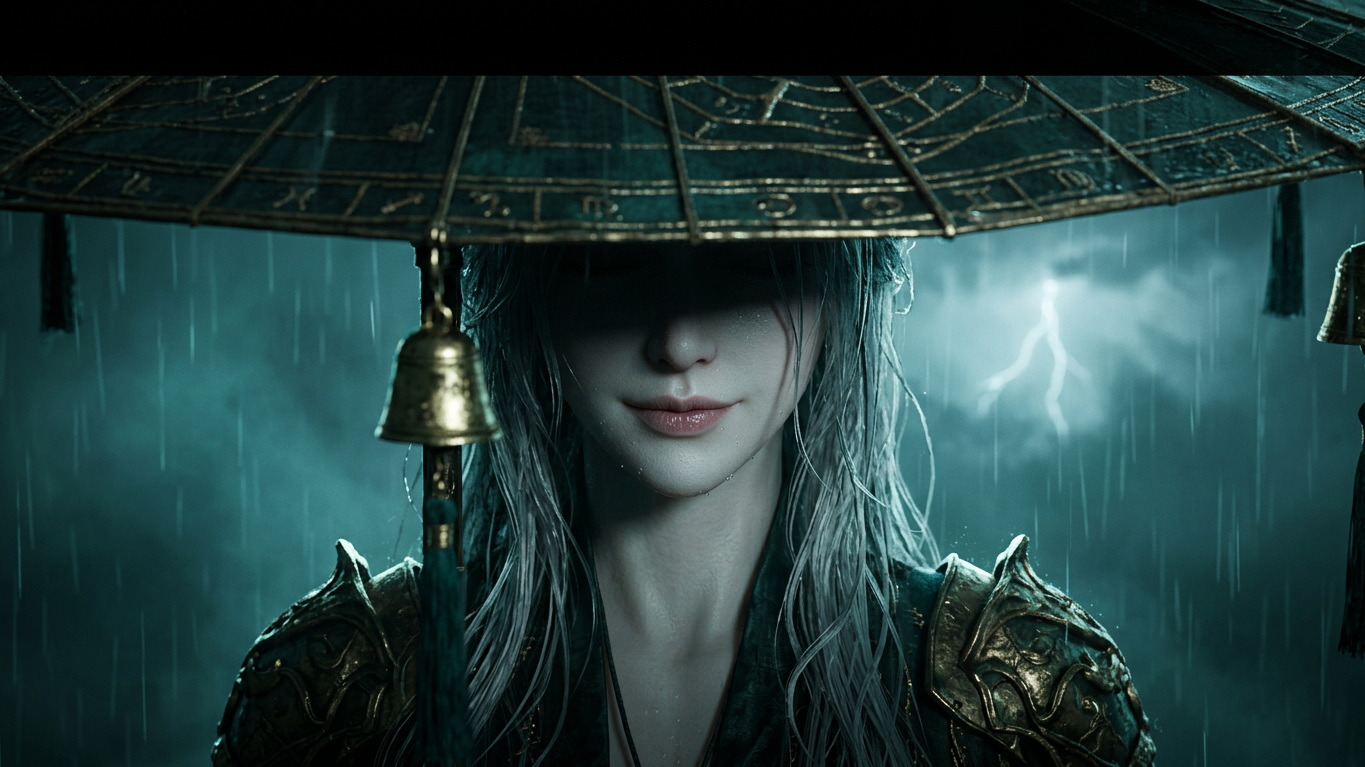
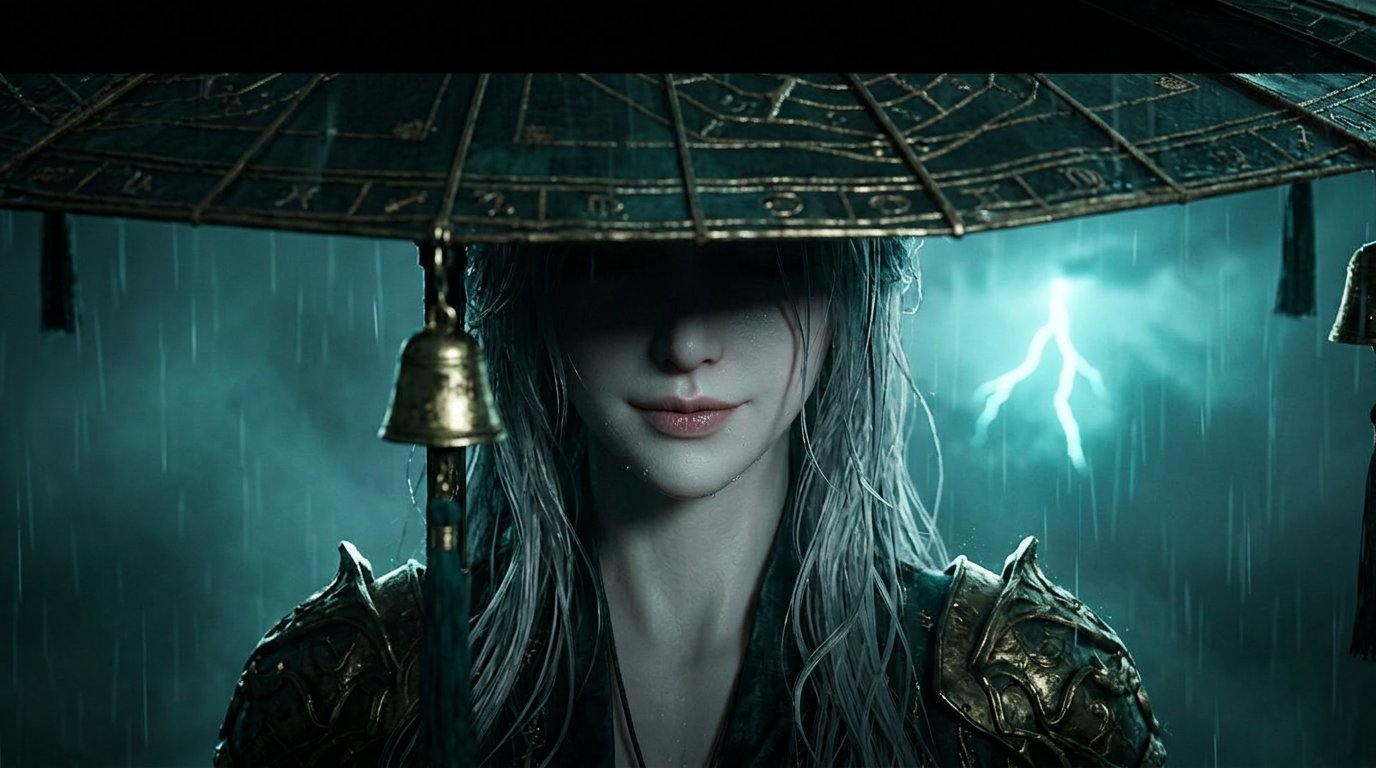
fix: 修四处不足 —— 镜20 保留石阵 / 镜12 主体 / 镜8 动势 / 镜6 去紫 + 影调再平衡
1) 镜20：以上一版原始图为底，只替换面具造型为傩面
   背景恢复石阵+残柱+小人物，与镜19/21 空间连续（上一版换图时丢了这一点）
2) 镜12：拉远取景，人物上身与面部完整可读，盾占画幅约 1/3 而非满屏
3) 镜8：正面站姿海报 -> 低角度、迈步向前、衣袂后拖、水花飞溅
4) 镜6：背景闪电改为冷青白，去掉淡蓝白偏高光（品红扫描 0.02%）

影调再平衡（逐镜对比发现本片太均匀：54~94，参考片 44~116）：
   top_dark 0.86->0.93（原来把画面上部压掉 14%，高光被吃掉）、
   contrast 1.10->1.17、gamma 0.93->0.905、lift 0.012->0.014、
   hi_roll 1.8->1.45、floor 0.030
   实测：luma 66.6->67.4、p5 6.3->10.7（参考 8.7）、p95 167.7、
        死黑 3.58%->0.85%、高光溢出 0%

diff --git a/render/render_video.py b/render/render_video.py
@@ -26,9 +26,11 @@ FPS = 30
 
 # ------------------------------------------------------------------ 后期
 # 影调参数（可由 scripts/tune_grade.py 搜索；正式渲染以这里为准）
-GRADE = dict(bloom_th=0.75, bloom_gain=0.40, lift=0.012, teal_shadow=0.145,
-             contrast=1.11, sat=0.97, warm_hl=0.03, gamma=0.93, floor=0.045,
-             vig=0.82, top_dark=0.86, center=0.075, grain=1.5, hi_roll=1.8,
+GRADE = dict(bloom_th=0.75, bloom_gain=0.40, lift=0.014, teal_shadow=0.145,
+             # 亮度 66.6 vs 参考 71.7、暗部 p5 6.0 vs 9.0：
+             # gamma 0.93→0.90 抬中间调，floor 0.045→0.058 抬黑位，hi_roll 防高光溢出
+             contrast=1.17, sat=0.99, warm_hl=0.03, gamma=0.905, floor=0.030,
+             vig=0.82, top_dark=0.93, center=0.075, grain=1.5, hi_roll=1.45,
              tint=(1.0, 1.0, 1.035), cool=(0.46, 0.58, 0.66))
 
 
